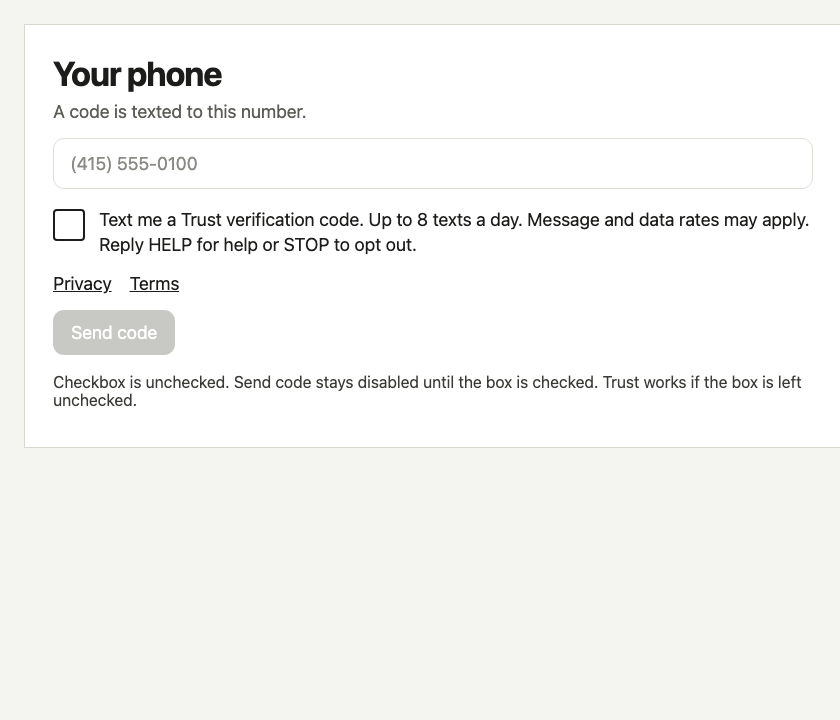
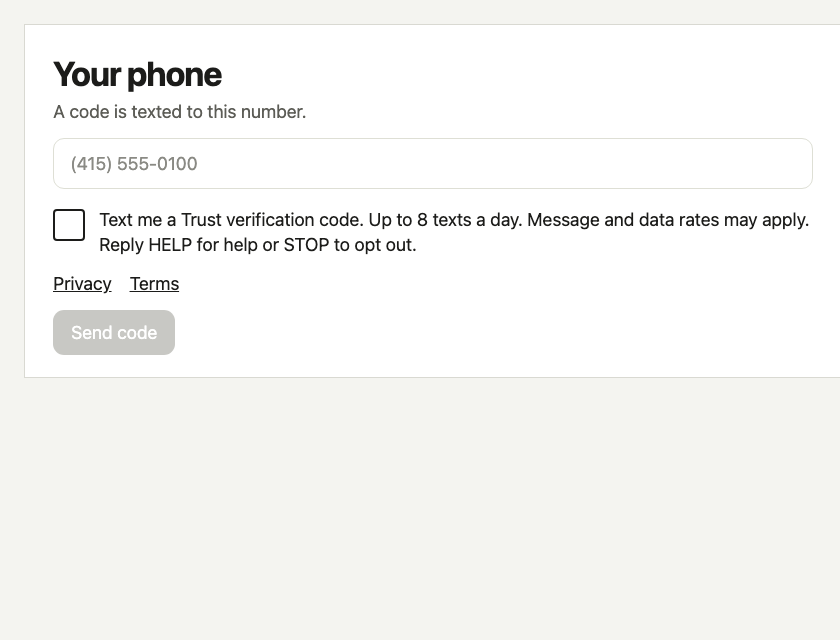
Say a Trust account needs a verification text.
The public pages no longer call texts optional or narrate the screen like a compliance form.

Changed region(s): [[0.0619, 0.2188, 0.9595, 0.5625], [0.0619, 0.0625, 0.3714, 0.1875]]

diff --git a/apps/jointrust-web/public/terms.html b/apps/jointrust-web/public/terms.html
@@ -4,7 +4,7 @@
     <meta charset="utf-8" />
     <meta name="viewport" content="width=device-width, initial-scale=1" />
     <title>Terms — Trust</title>
-    <meta name="description" content="Terms for Trust, optional Plus, and verification texts you can decline." />
+    <meta name="description" content="Terms for Trust. The account needs a verification text." />
     <link rel="canonical" href="https://jointrust.app/terms" />
     <meta name="theme-color" content="#FFFEFA" />
     <link rel="icon" href="/favicon.svg" type="image/svg+xml" />
@@ -26,7 +26,7 @@
       <p>Last updated 22 September 2026. Trust is made and operated by Collapse Technologies. By using the Trust iOS app you agree to these terms and to the <a href="/privacy">Privacy Policy</a>.</p>
 
       <h2>Who it is for</h2>
-      <p>Trust can be used by a household, including family. It is not a children’s app and is not directed at children under 13. You need an Apple ID and a handle. You decide who you add and the share mode for each person. You do not have to verify a phone number to use Trust.</p>
+      <p>Trust can be used by a household, including family. It is not a children’s app and is not directed at children under 13. You need an Apple ID, a handle, and a verification text to your phone. You decide who you add and the share mode for each person.</p>
 
       <h2>How looking works</h2>
       <p>Your coordinates stay hidden until someone you added confirms a look, unless you set Always for that person. A look is one snapshot and sends a receipt. Free history is 24 hours. Plus history is 30 days. You can remove anyone at any time, and you can delete your account in Settings. Free includes up to 5 people.</p>
@@ -42,7 +42,7 @@
       <p>The <a href="https://www.apple.com/legal/internet-services/itunes/dev/stdeula/">Apple Licensed Application End User License Agreement</a> also applies to the App Store download.</p>
 
       <h2>Text messages</h2>
-      <p>Collapse Technologies, operating as Trust, texts a one-time verification code only after you sign in with Apple, type your own mobile number, and check “Text me a Trust verification code.” That checkbox starts unchecked, and consent to texts is not required to create an account or use Trust. Message frequency is the codes you request, at most 8 texts a day. Message and data rates may apply. Reply <strong>HELP</strong> for help or <strong>STOP</strong> to cancel. The screen is at <a href="/sms">https://jointrust.app/sms</a>. Support is <a href="mailto:hello@collapsetechnologies.com">hello@collapsetechnologies.com</a> and <a href="/support">the support page</a>. Carriers are not liable for delayed or undelivered messages.</p>
+      <p>Trust texts a verification code to finish the account, after you sign in with Apple, type your own number, and check the box. The box starts empty. At most 8 texts a day. Message and data rates may apply. Reply <strong>HELP</strong> for help or <strong>STOP</strong> to cancel. The screen is at <a href="/sms">https://jointrust.app/sms</a>. Support is <a href="mailto:hello@collapsetechnologies.com">hello@collapsetechnologies.com</a> and <a href="/support">the support page</a>. Carriers are not liable for delayed or undelivered messages.</p>
       <p>We do not share, sell, or provide your mobile phone number or messaging consent data to third parties or affiliates for marketing or promotional purposes. Text messaging originator opt-in data and consent will not be shared with any third parties. The <a href="/privacy">Privacy Policy</a> describes what the text program collects.</p>
 
       <h2>Acceptable use</h2>

diff --git a/apps/collapse-technologies/app/trust/sms/page.js b/apps/collapse-technologies/app/trust/sms/page.js
@@ -3,7 +3,7 @@ import Link from "next/link";
 export const metadata = {
   title: "Trust verification texts | Collapse Technologies",
   description:
-    "How Trust asks before texting a verification code. The control starts off. Trust works without it.",
+    "A Trust account needs a verification text. The box starts empty. Check it, then we send the code.",
   alternates: { canonical: "/trust/sms" },
 };
 
@@ -13,13 +13,12 @@ export default function TrustSmsPage() {
       <Link className="wordmark" href="/">
         Collapse<span>Technologies</span>
       </Link>
-      <p className="eyebrow">Trust · Verification texts</p>
-      <h1>Texts are optional.</h1>
+      <p className="eyebrow">Trust</p>
+      <h1>Your phone.</h1>
       <div className="legal-copy">
         <p>
-          Screenshot of the opt-in. The checkbox is unchecked. Send code stays disabled
-          until it is checked. Direct image:{" "}
-          <a href="/trust/sms-opt-in.png">https://collapsetechnologies.com/trust/sms-opt-in.png</a>
+          A code is texted to this number. The account needs it. The box starts empty.
+          Check it, then Send code.
         </p>
         <p>
           <img
@@ -32,35 +31,11 @@ export default function TrustSmsPage() {
       </div>
       <div className="legal-copy">
         <p>
-          Last updated 22 September 2026. Collapse Technologies, operating as Trust, sends
-          one kind of text: a one-time verification code to a mobile number the account holder
-          types in. Trust does not text invites, alerts, or marketing.
+          Last updated 22 September 2026. Trust sends one kind of text: a verification code,
+          to finish the account. No invites, no alerts, no marketing. Up to 8 texts a day.
+          Message and data rates may apply. Reply HELP for help or STOP to opt out.
         </p>
-
-        <p><strong>Where consent happens</strong></p>
-        <p>
-          After Sign in with Apple, the app can show a phone screen. The checkbox in the
-          screenshot starts unchecked. Send code stays disabled until the person checks it.
-          They can leave the screen and keep using Trust without a phone number. Consent is
-          not required to create an account, buy Plus, or use the app. This page does not
-          collect a phone number.
-        </p>
-        <p>The checkbox label reads:</p>
-        <p>
-          “Text me a Trust verification code. Up to 8 texts a day. Message and data rates may
-          apply. Reply HELP for help or STOP to opt out.”
-        </p>
-        <p>
-          On that same screen, Privacy Policy links to{" "}
-          <Link href="/trust/privacy">https://collapsetechnologies.com/trust/privacy</Link> and
-          Terms links to{" "}
-          <Link href="/trust/terms">https://collapsetechnologies.com/trust/terms</Link>.
-        </p>
-
-        <p><strong>What the text says</strong></p>
-        <p>Trust code: 123456. Expires in 10 minutes. Reply STOP to opt out.</p>
-
-        <p><strong>Program</strong></p>
+        <p>The text says: Trust code: 123456. Expires in 10 minutes. Reply STOP to opt out.</p>
         <ul>
           <li>Sender: Trust, by Collapse Technologies.</li>
           <li>Frequency: only the codes you request, at most 8 texts a day.</li>

diff --git a/apps/jointrust-web/public/sms.html b/apps/jointrust-web/public/sms.html
@@ -3,10 +3,10 @@
   <head>
     <meta charset="utf-8" />
     <meta name="viewport" content="width=device-width, initial-scale=1" />
-    <title>Verification texts — Trust</title>
+    <title>Your phone — Trust</title>
     <meta
       name="description"
-      content="The Trust verification-text checkbox starts unchecked. Send code stays disabled until it is checked."
+      content="A Trust account needs a verification text. The box starts empty. Check it, then we send the code."
     />
     <link rel="canonical" href="https://jointrust.app/sms" />
     <meta name="theme-color" content="#FFFEFA" />
@@ -24,21 +24,13 @@
       </nav>
     </header>
     <main>
-      <h1>Texts</h1>
+      <h1>Your phone</h1>
       <div class="rule" aria-hidden="true"></div>
-      <p>Screenshot of the opt-in. The checkbox is unchecked. Send code stays disabled until it is checked. Direct image: <a href="/sms-opt-in.png">https://jointrust.app/sms-opt-in.png</a></p>
-      <p><img class="opt-in" src="/sms-opt-in.png" width="760" alt="Trust phone screen with the verification-text checkbox unchecked and Send code disabled" /></p>
-      <p>Last updated 22 September 2026. Collapse Technologies, operating as Trust, sends one kind of text: a one-time verification code to a mobile number the account holder types in. Trust does not text invites, alerts, or marketing.</p>
-
-      <h2>Where consent happens</h2>
-      <p>After Sign in with Apple, the app can show a phone screen. The checkbox in the screenshot starts unchecked. Send code stays disabled until the person checks it. They can leave the screen and keep using Trust without a phone number. Consent is not required to create an account, buy Plus, or use the app. This page does not collect a phone number.</p>
-      <p>The checkbox label reads: “Text me a Trust verification code. Up to 8 texts a day. Message and data rates may apply. Reply HELP for help or STOP to opt out.”</p>
-      <p>On that same screen, Privacy links to <a href="/privacy">https://jointrust.app/privacy</a> and Terms links to <a href="/terms">https://jointrust.app/terms</a>.</p>
-
-      <h2>What the text says</h2>
-      <p>Trust code: 123456. Expires in 10 minutes. Reply STOP to opt out.</p>
-
-      <h2>Program</h2>
+      <p class="lede">A code is texted to this number. The account needs it.</p>
+      <p><img class="opt-in" src="/sms-opt-in.png" width="760" alt="Trust phone screen. The box starts empty. Send code stays off until it is checked." /></p>
+      <p>The box starts empty. Check it, then Send code. Up to 8 texts a day. Message and data rates may apply. Reply HELP for help or STOP to opt out.</p>
+      <p>Privacy is at <a href="/privacy">jointrust.app/privacy</a>. Terms are at <a href="/terms">jointrust.app/terms</a>.</p>
+      <p>The text says: Trust code: 123456. Expires in 10 minutes. Reply STOP to opt out.</p>
       <ul>
         <li>Sender: Trust, by Collapse Technologies.</li>
         <li>Frequency: only the codes you request, at most 8 texts a day.</li>

diff --git a/apps/collapse-technologies/app/trust/terms/page.js b/apps/collapse-technologies/app/trust/terms/page.js
@@ -27,7 +27,7 @@ export default function TrustTermsPage() {
           Trust can be used by a household, including family. It is not a children&apos;s app and
           is not directed at children under 13. You need an Apple ID (Sign in with Apple) and a
           handle. You are responsible for who you add and for the share mode you set for each
-          person. You do not have to verify a phone number to use Trust.
+          person. The account needs a verification text to your phone.
         </p>
 
         <p><strong>How looking works</strong></p>
@@ -73,12 +73,10 @@ export default function TrustTermsPage() {
 
         <p><strong>Text messages</strong></p>
         <p>
-          Collapse Technologies, operating as Trust, texts a one-time verification code only after
-          you sign in with Apple, type your own mobile number, and turn on “Text me a Trust
-          verification code.” That control starts off, and consent to texts is not required to
-          create an account or use Trust. Message frequency is the codes you request, at most 8
-          texts a day. Message and data rates may apply. Reply <strong>HELP</strong> for help or{" "}
-          <strong>STOP</strong> to cancel. The screen is described at{" "}
+          Trust texts a verification code to finish the account, after you sign in with Apple,
+          type your own number, and check the box. The box starts empty. At most 8 texts a day.
+          Message and data rates may apply. Reply <strong>HELP</strong> for help or{" "}
+          <strong>STOP</strong> to cancel. The screen is at{" "}
           <Link href="/trust/sms">collapsetechnologies.com/trust/sms</Link>. Support is{" "}
           <a href="mailto:hello@collapsetechnologies.com">hello@collapsetechnologies.com</a> and{" "}
           <Link href="/trust/support">the support page</Link>. Carriers are not liable for delayed

diff --git a/apps/jointrust-web/public/support.html b/apps/jointrust-web/public/support.html
@@ -26,13 +26,13 @@
       <p>Email <a href="mailto:hello@collapsetechnologies.com">hello@collapsetechnologies.com</a>. Tell us your handle. Trust uses Sign in with Apple, so there is no password.</p>
 
       <h2>Getting started</h2>
-      <p>Sign in with Apple, choose a handle, then add someone you choose. Sharing is off until you turn it on. A phone number is optional. For looks to work while the app is closed, allow location Always in iOS Settings.</p>
+      <p>Sign in with Apple, choose a handle, then add someone you choose. Sharing is off until you turn it on. The account needs a verification text. For looks to work while the app is closed, allow location Always in iOS Settings.</p>
 
       <h2>Looks and receipts</h2>
       <p>When someone looks at you, you get a push saying who looked. If receipts are not arriving, allow notifications for Trust and stay signed in on that phone.</p>
 
       <h2>Texts</h2>
-      <p>Verification texts are optional. The checkbox starts unchecked. Reply HELP for help or STOP to opt out. The screen is at <a href="/sms">https://jointrust.app/sms</a>.</p>
+      <p>The account needs a verification text. The box starts empty. Reply HELP for help or STOP to opt out. The screen is at <a href="/sms">https://jointrust.app/sms</a>.</p>
 
       <h2>Plus billing</h2>
       <p>Plus is $7.99 a month or $69.99 a year, with a 7-day free trial, billed by Apple, on your own account. Manage, cancel, or request a refund in iOS Settings, Apple ID, Subscriptions. If you paid and Plus is not unlocked, open Settings in the app and restore purchases.</p>

diff --git a/apps/jointrust-web/public/privacy.html b/apps/jointrust-web/public/privacy.html
@@ -50,7 +50,7 @@
       </ul>
 
       <h2>Text messages</h2>
-      <p>Collapse Technologies, operating as Trust, texts a one-time verification code only after you sign in and check “Text me a Trust verification code.” That checkbox starts unchecked. You can use Trust without checking it. Message frequency is the codes you request, at most 8 texts a day. Message and data rates may apply. Reply HELP for help or STOP to opt out. The screen is at <a href="/sms">https://jointrust.app/sms</a>.</p>
+      <p>Trust texts a verification code to finish the account. The box starts empty. You check it, then we send the code. At most 8 texts a day. Message and data rates may apply. Reply HELP for help or STOP to opt out. The screen is at <a href="/sms">https://jointrust.app/sms</a>.</p>
       <p>We do not share, sell, or provide your mobile phone number or messaging consent data to third parties or affiliates for marketing or promotional purposes. No mobile information will be shared with third parties or affiliates for marketing or promotional purposes. Text messaging originator opt-in data and consent will not be shared with any third parties. Twilio transmits the verification text we ask it to send and does not use your number for its own marketing.</p>
 
       <h2>What we do not do</h2>

diff --git a/apps/collapse-technologies/app/trust/privacy/page.js b/apps/collapse-technologies/app/trust/privacy/page.js
@@ -92,11 +92,9 @@ export default function TrustPrivacyPage() {
 
         <p><strong>Text messages</strong></p>
         <p>
-          Collapse Technologies, operating as Trust, texts a one-time verification code only after
-          you sign in and turn on “Text me a Trust verification code.” That control starts off.
-          You can use Trust without turning it on. Message frequency is the codes you request, at
-          most 8 texts a day. Message and data rates may apply. Reply HELP for help or STOP to
-          opt out. The wording on that screen is published at{" "}
+          Trust texts a verification code to finish the account. The box starts empty. You check
+          it, then we send the code. At most 8 texts a day. Message and data rates may apply.
+          Reply HELP for help or STOP to opt out. The screen is at{" "}
           <Link href="/trust/sms">collapsetechnologies.com/trust/sms</Link>.
         </p>
         <p>

diff --git a/apps/collapse-technologies/app/terms/page.js b/apps/collapse-technologies/app/terms/page.js
@@ -33,8 +33,8 @@ export default function TermsPage() {
           without permission.
         </p>
         <p>
-          Trust verification texts are optional and are described at{" "}
-          <Link href="/trust/terms">/trust/terms</Link>. We do not share, sell, or
+          A Trust account needs a verification text. Details are at{" "}
+          <Link href="https://jointrust.app/terms">jointrust.app/terms</Link>. We do not share, sell, or
           provide your mobile phone number or messaging consent data to third parties
           or affiliates for marketing or promotional purposes.
         </p>

diff --git a/apps/collapse-technologies/app/trust/support/page.js b/apps/collapse-technologies/app/trust/support/page.js
@@ -25,7 +25,7 @@ export default function TrustSupportPage() {
         <p><strong>Getting started</strong></p>
         <p>
           Sign in with Apple, choose a unique handle, then add someone you choose. Sharing is
-          off until you turn it on. A phone number is optional. For looks to work while the app
+          off until you turn it on. The account needs a verification text. For looks to work while the app
           is closed, allow location <em>Always</em> in iOS Settings.
         </p>
 

diff --git a/apps/collapse-technologies/app/trust/page.js b/apps/collapse-technologies/app/trust/page.js
@@ -39,8 +39,7 @@ export default function TrustPage() {
           Apple ID → Subscriptions.
         </p>
         <p>
-          Verification texts are optional. The consent screen, privacy policy, and terms
-          are at{" "}
+          The account needs a verification text. That screen is at{" "}
           <Link href="/trust/sms">/trust/sms</Link>.
         </p>
       </div>

diff --git a/apps/collapse-technologies/app/globals.css b/apps/collapse-technologies/app/globals.css
@@ -525,6 +525,8 @@ h2 { margin-bottom: 0; font-size: clamp(2.4rem, 4vw, 3.6rem); }
 .sms-evidence h1 {
   font-size: clamp(2.4rem, 6vw, 4.2rem);
   margin-bottom: 18px;
+  text-transform: none;
+  letter-spacing: -0.04em;
 }
 
 .consent-card {
